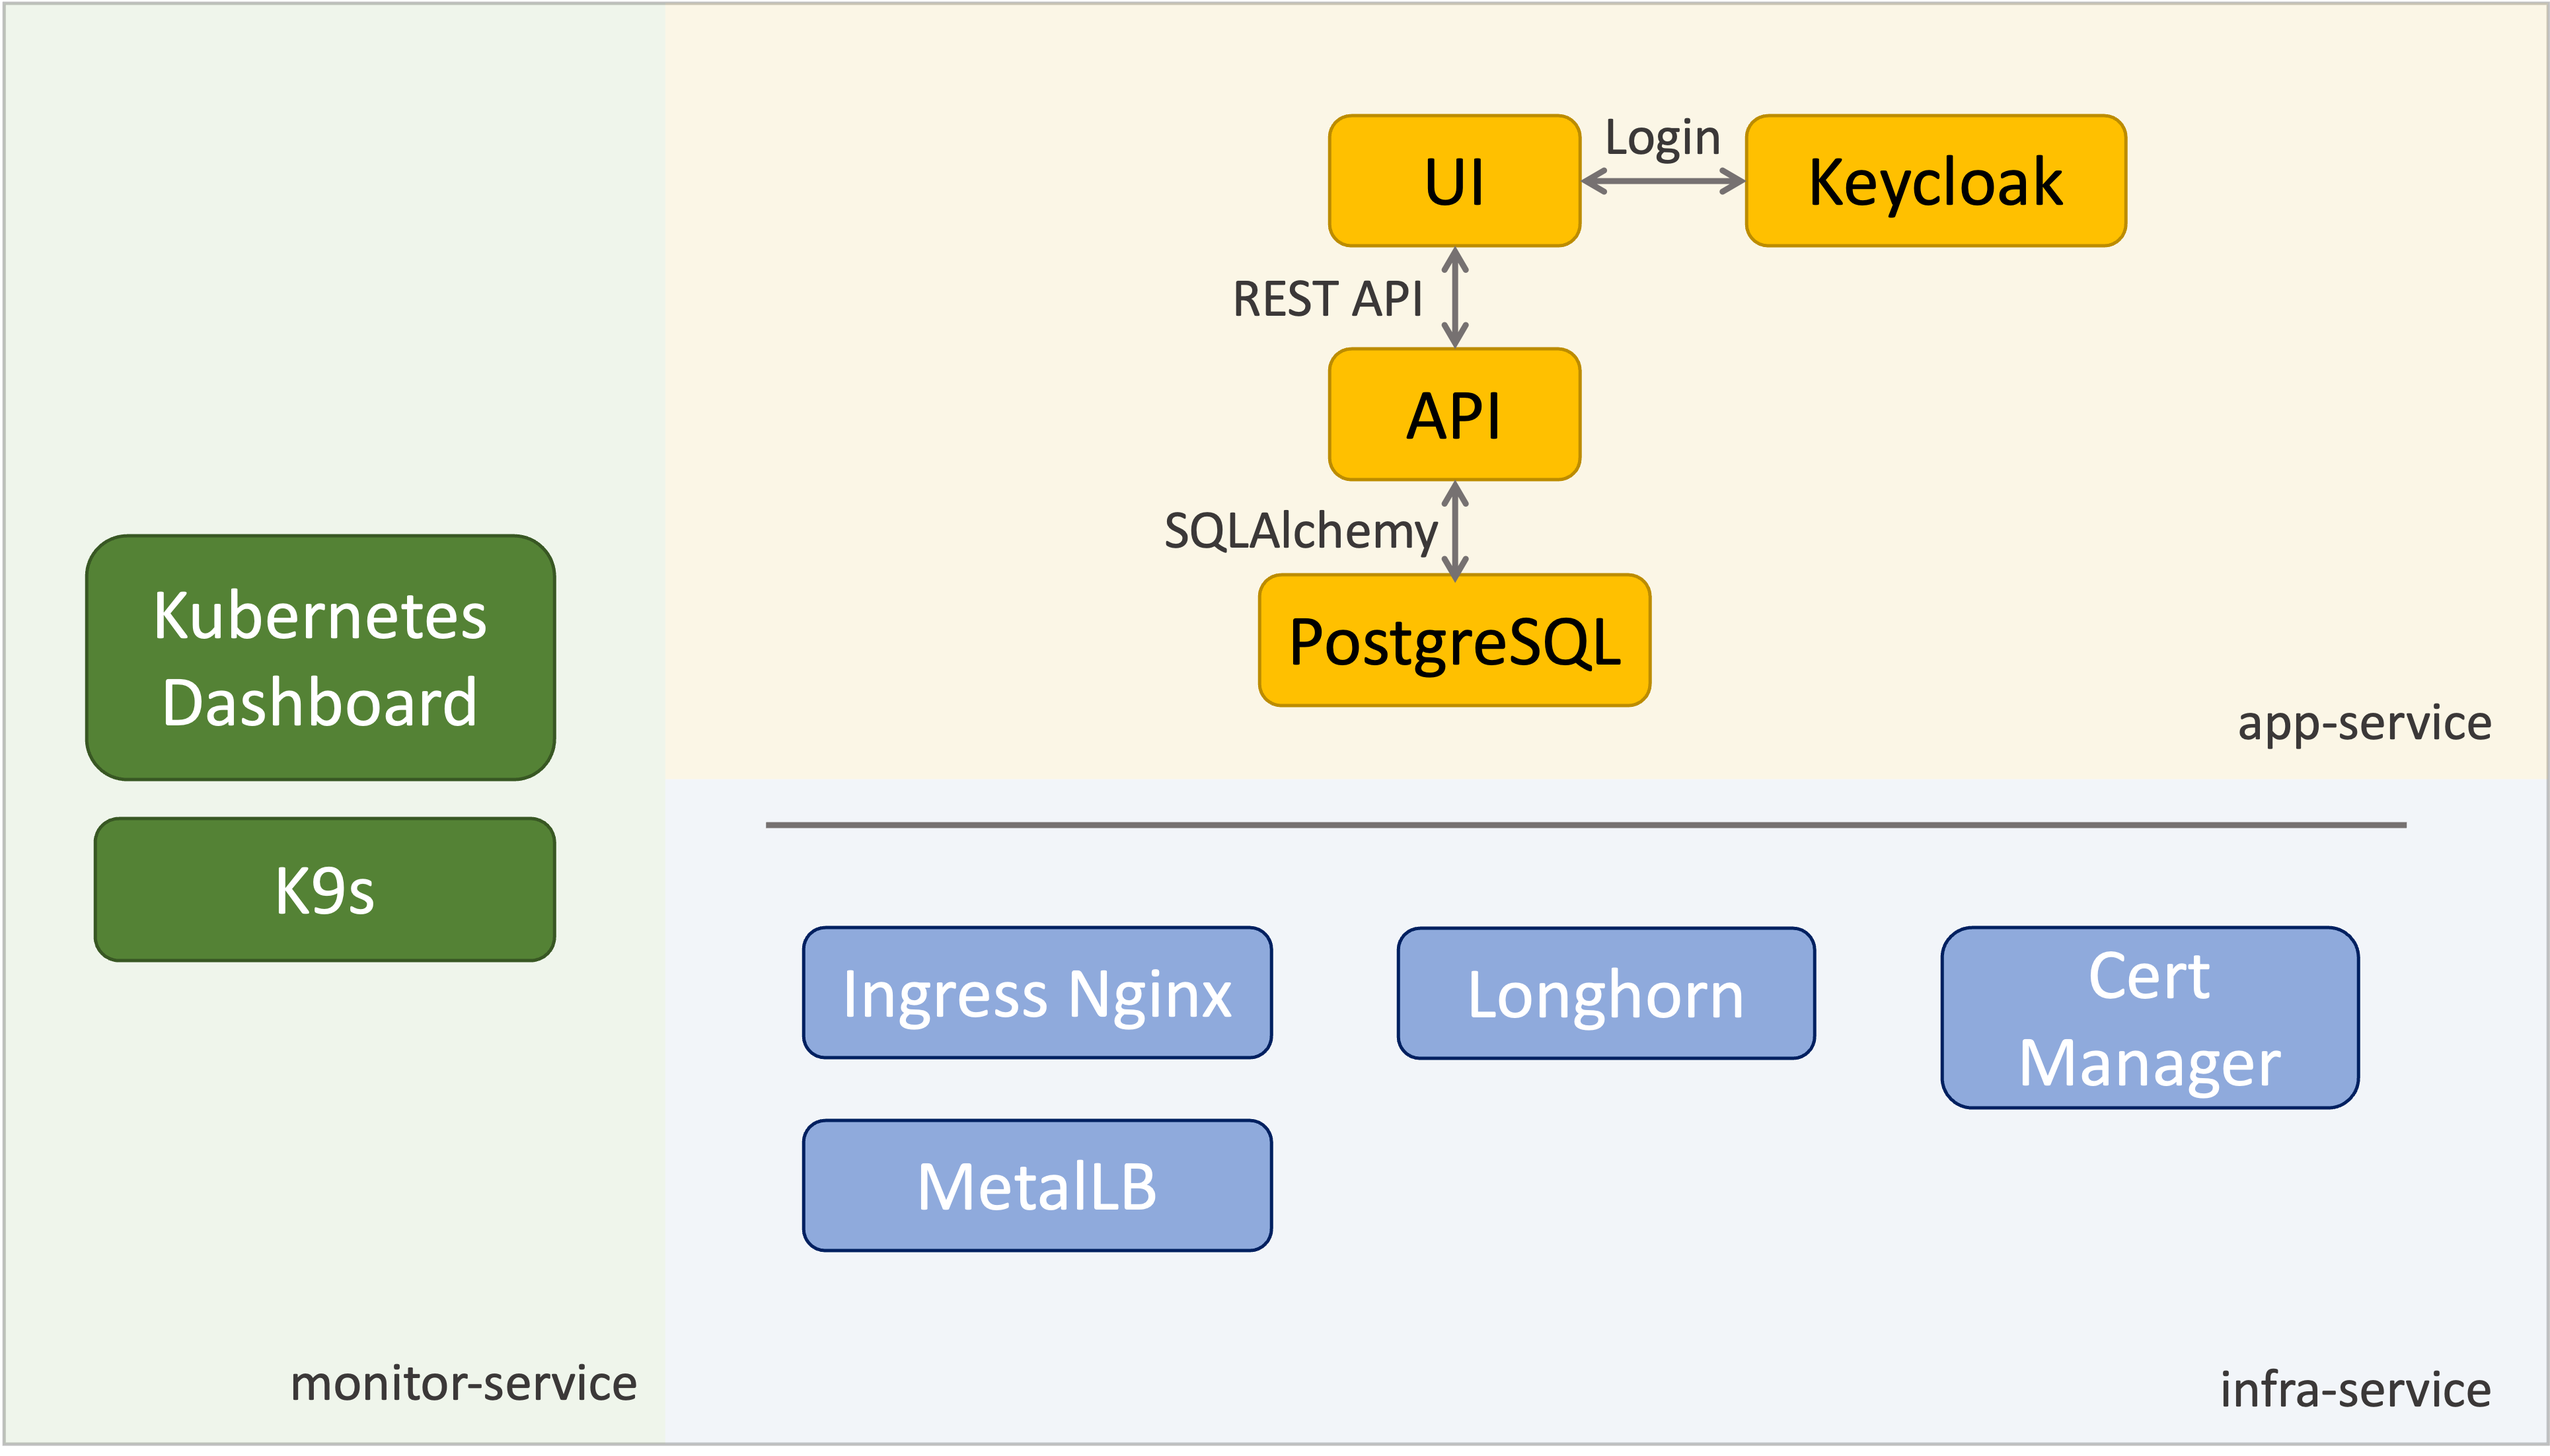
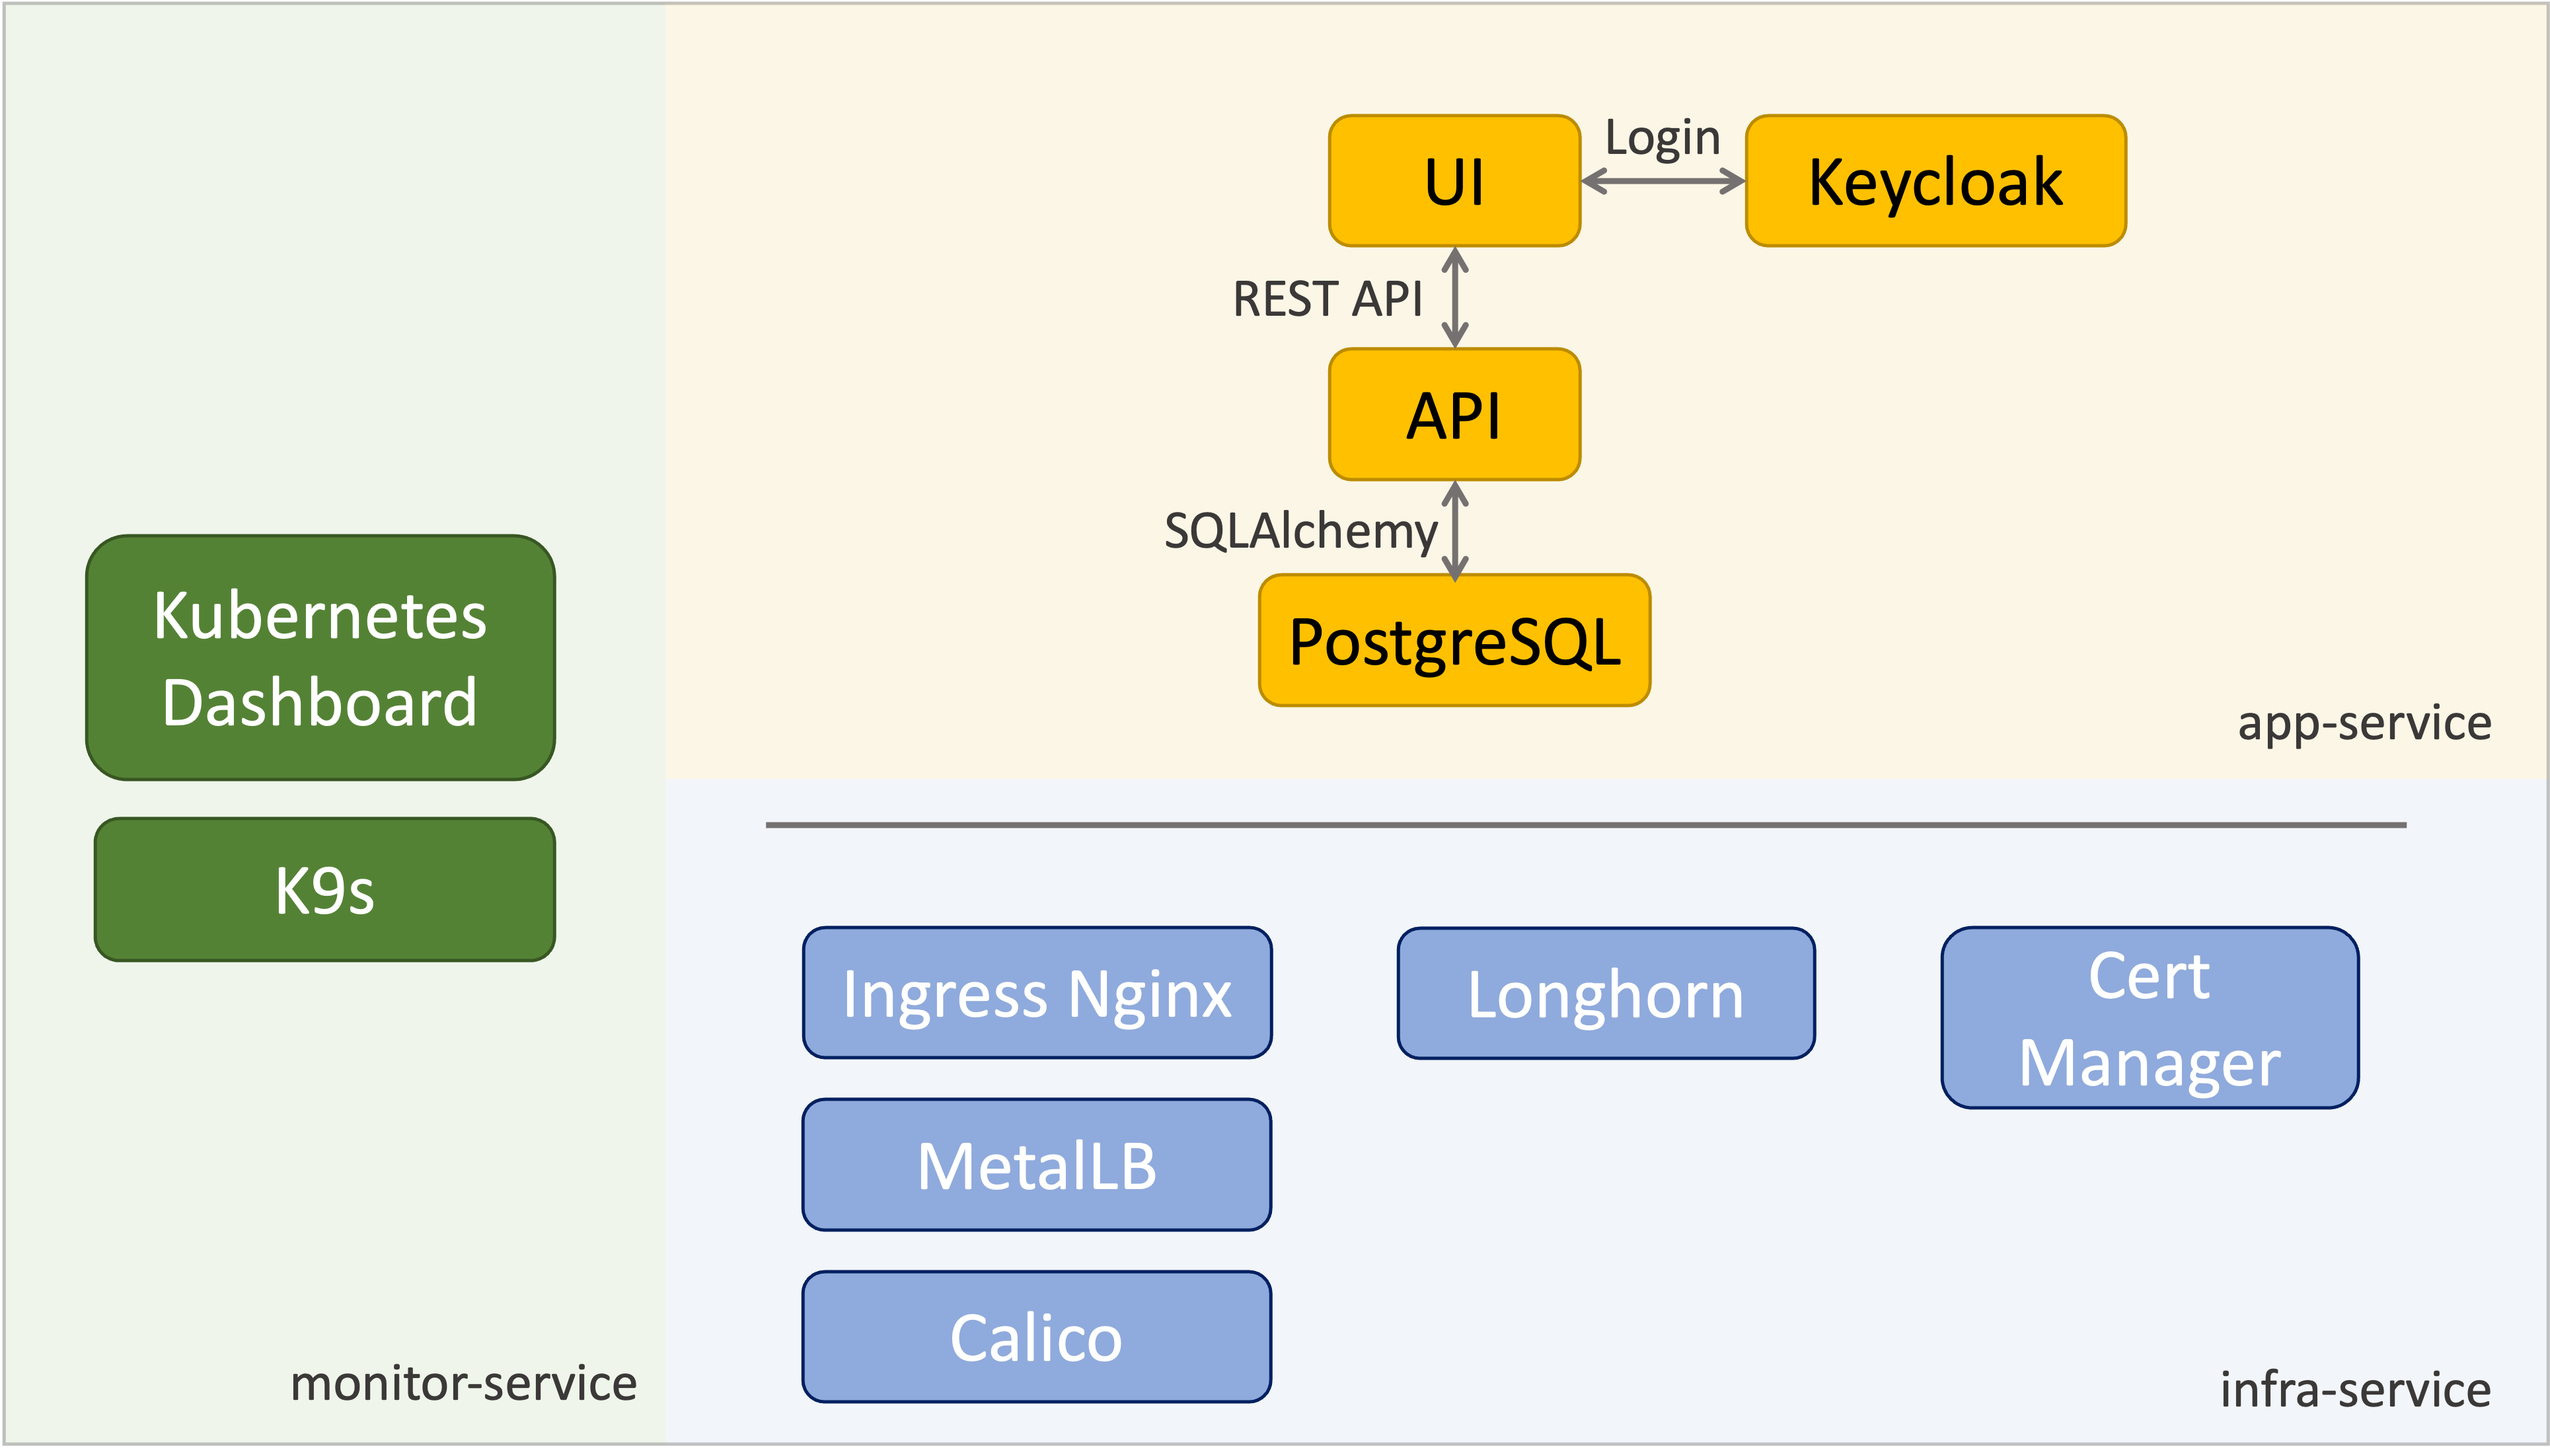
update readme

Changed region(s): [[0.311, 0.7405, 0.4975, 0.9873]]

diff --git a/README.md b/README.md
@@ -70,13 +70,122 @@ To install Anime Reminder, follow the below steps:
 ## Features
 
 ### Architecture
-<img src="https://github.com/nightmare224/anime-reminder/blob/master/docs/images/architecture.png" alt="architecture" width="870" height="500" />
 
-In this repository, you can see four directories which is [**app-service**](https://github.com/nightmare224/anime-reminder/tree/master/app-service), [**automated-deploy-tool**](https://github.com/nightmare224/anime-reminder/tree/master/automated-deploy-tool), [**infra-service**](https://github.com/nightmare224/anime-reminder/tree/master/infra-service), and [**monitor-service**](https://github.com/nightmare224/anime-reminder/tree/master/monitor-service).
+The components in the Kubernetes cluster that would be deployed by Ansible are briefly shown as below:
 
-### App-service
-The Anime Reminder application is composed of four components which is **Keycloak**, **PostgreSQL**, UI frontend, and API backend.
+<img src="https://github.com/nightmare224/anime-reminder/blob/master/docs/images/architecture.png" alt="architecture"/>
 
+In this repository, you can find there are four directories: [**app-service**](https://github.com/nightmare224/anime-reminder/tree/master/app-service), [**infra-service**](https://github.com/nightmare224/anime-reminder/tree/master/infra-service), [**monitor-service**](https://github.com/nightmare224/anime-reminder/tree/master/monitor-service), and [**automated-deploy-tool**](https://github.com/nightmare224/anime-reminder/tree/master/automated-deploy-tool) which are corresponding to the picture.
 
+***
 
+### app-service
+
+The Anime Reminder application is composed of four components which is **Keycloak**, **PostgreSQL**, **UI**, and **API.** 
+
+#### Manually Install
+
+The helm chart of our application which contains these 4 components can be found [here](https://github.com/nightmare224/anime-reminder/tree/master/app-service/anime-reminder/helm). To deploy this anime-reminder helm chart manually not by Ansible, you can execute:
+
+```bash
+bash anime-reminder/app-service/anime-reminder/deploy.sh
+```
+
+If you would like to change the username and password of PostgreSQL and Keycloak, change the value of **[POSTGRESQL-CONFIG]** and **[KEYCLOAK-CONFIG]** section in [anime-reminder/app-service/anime-reminder/config.ini](https://github.com/nightmare224/anime-reminder/blob/master/app-service/anime-reminder/config.ini) before you run `deploy.sh`.
+
+```ini
+[SERVICE-CONFIG]
+  HELM_TEMPLATE_PATH="helm/anime-reminder/"
+  SERVICE_NAME="anime-reminder"
+  SERVICE_NAMESPACE="anime-reminder"
+  DOMAIN_NAME="sc23.group40.io"
+
+[POSTGRESQL-CONFIG]
+  POSTGRESQL_USER="postgres"
+  POSTGRESQL_PASSWORD="pganimereminder"
+
+[KEYCLOAK-CONFIG]
+  KEYCLOAK_USER="admin"
+  KEYCLOAK_PASSWORD="admin"
+```
+
+#### Keycloak
+
+The helm chart of Keycloak is based on [codecentric/keycloak](https://artifacthub.io/packages/helm/codecentric/keycloak). We add some our own configuration and then merge it in to our anime-reminder helm chart.
+
+#### PostgreSQL
+
+The helm chart of PostgreSQL is based on [cetic/postgresql](https://artifacthub.io/packages/helm/cetic/postgresql). We add some our own configuration and then merge it in to our anime-reminder helm chart.
+
+#### UI
+
+The UI of anime-reminder is developed in Python Flask framework. The source code can be found in [**anime-reminder/app-service/anime-reminder/app/ui**]( https://github.com/nightmare224/anime-reminder/tree/master/app-service/anime-reminder/app/ui).
+
+#### API
+
+The API of anime-reminder is developed in Python Flask framework. The source code can be found in [**anime-reminder/app-service/anime-reminder/app/api**]( https://github.com/nightmare224/anime-reminder/tree/master/app-service/anime-reminder/app/api).
+
+***
+
+### infra-service
+
+There are several infrastature services underlay Anime Reminder application which is **Calico**, **MetalLB**, **Ingress Nginx**, **Longhorn**, and **Cert Manager**.
+
+#### Manually Install
+
+To deploy those services manually not by Ansible, run the `deploy.sh` in the directory of the service that you want to install:
+
+```bash
+bash anime-reminder/infra-service/<SERVICE NAME>/deploy.sh
+```
+
+#### Calico
+
+The helm chart of Calico is from [here](https://artifacthub.io/packages/helm/projectcalico/tigera-operator).
+
+#### MetalLB
+
+The helm chart of MetalLB is from [here](https://artifacthub.io/packages/helm/metallb/metallb).
+
+#### Ingress Nginx
+
+The yaml file of Ingress Nginx is from [here](https://raw.githubusercontent.com/kubernetes/ingress-nginx/controller-v1.5.1/deploy/static/provider/aws/deploy.yaml).
+
+#### Longhorn
+
+The helm chart of Longhorn is from [here](https://artifacthub.io/packages/helm/longhorn/longhorn).
+
+#### Cert Manager
+
+The helm chart of Cert Manager is from [here](https://artifacthub.io/packages/helm/cert-manager/cert-manager).
+
+***
+
+### monitor-service
+
+There are two monitor tool would be installed in the cluster which is **K9s** and **Kubernetes Dashboard**
+
+#### Manually Install
+
+To deploy those services manually not by Ansible, run the `deploy.sh` in the directory of the service that you want to install:
+
+```bash
+bash anime-reminder/monitor-service/<SERVICE NAME>/deploy.sh
+```
+
+#### K9s
+
+For convenience, we have already compiled the source code to the executable file in [here]().
+
+#### Kubernetes Dashboard
+
+The helm chart of Kubernetes Dashboard is from [here](https://artifacthub.io/packages/helm/k8s-dashboard/kubernetes-dashboard).
+
+There are two service account for Kuberenets Dashboard, which is **app-developer** and **infra-developer**. The app-developer can only access the **anime-reminder namespace**. The infra-developer can access **all namespaces**.
+
+To get the token of these service accounts, run the below command in master node:
+
+```bash
+kubectl -n kubernetes-dashboard create token <SVCACCT>
+```
 
